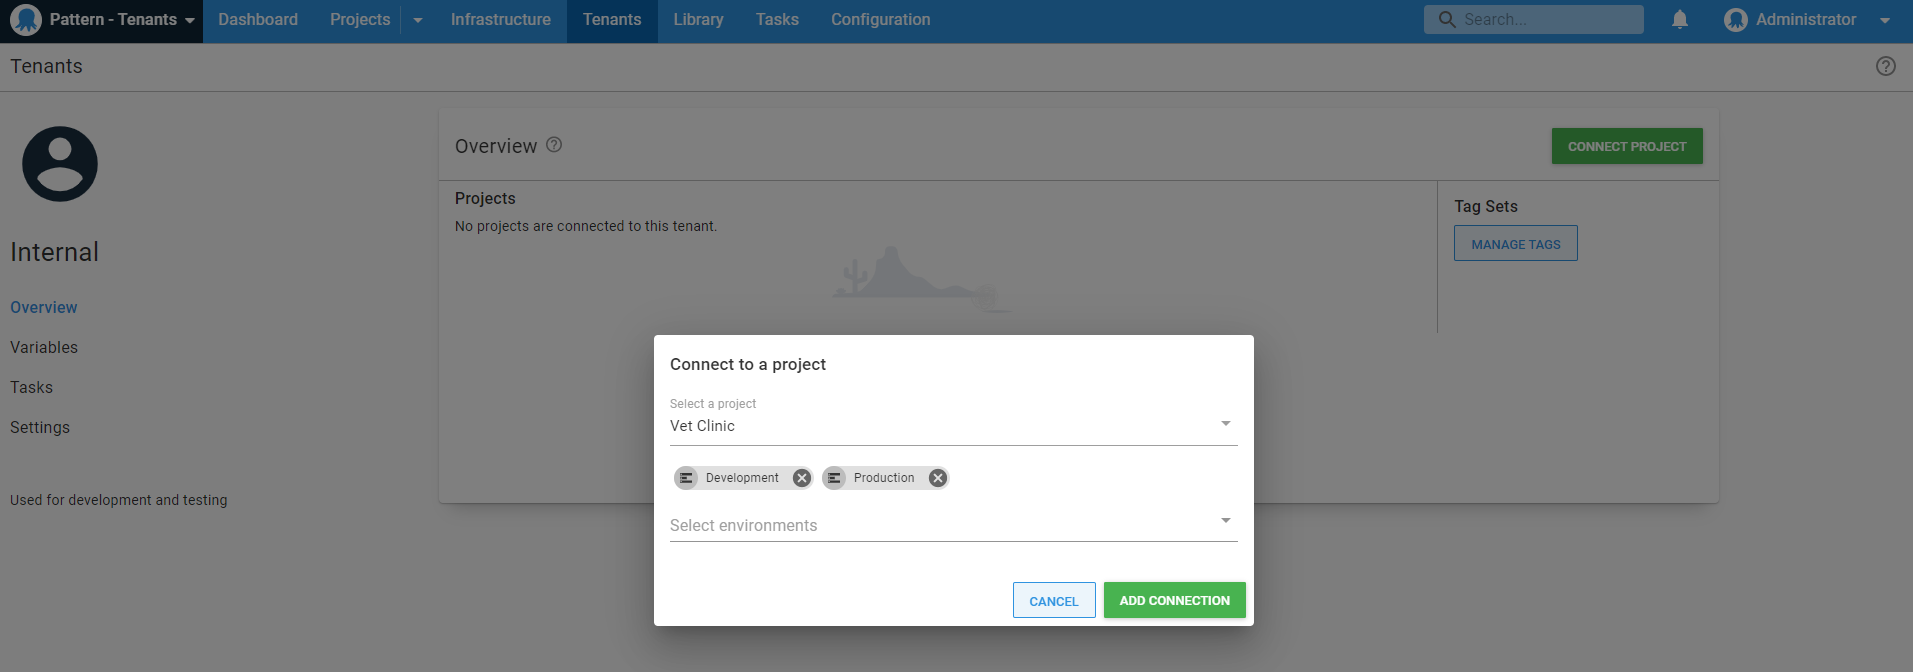
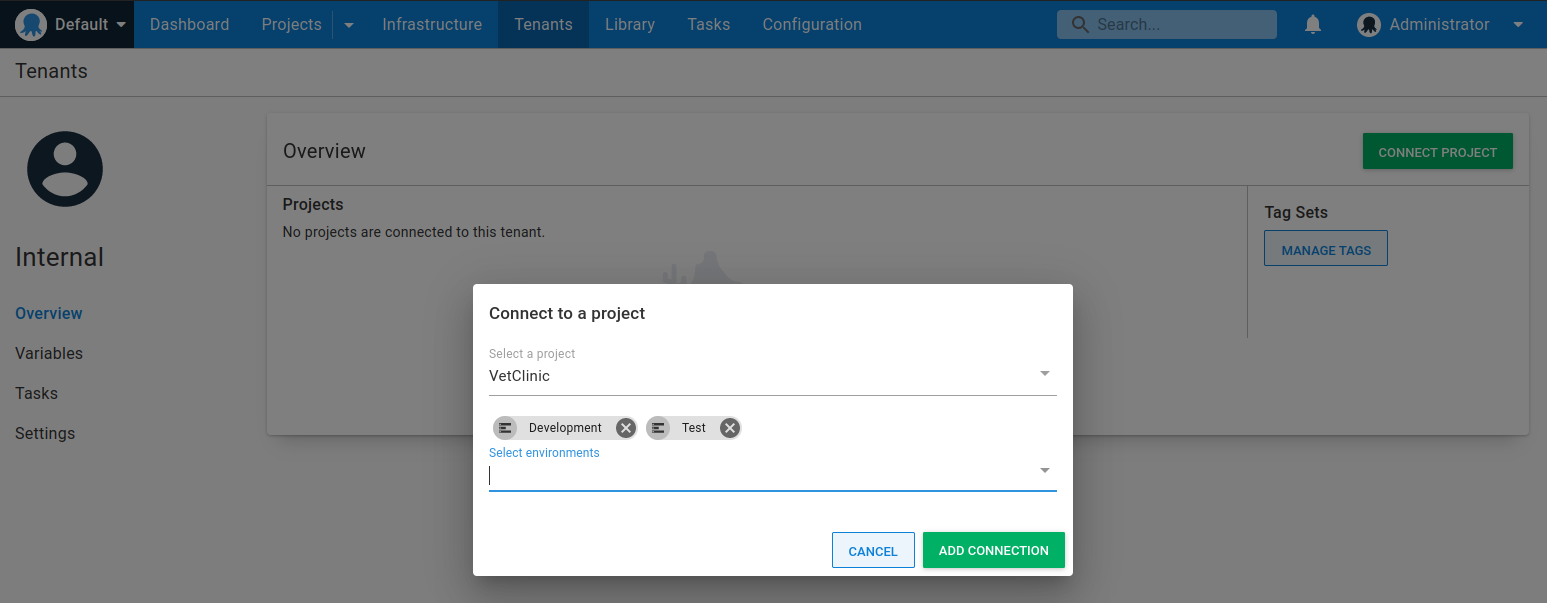
Update couple of images

diff --git a/docs/tenants/guides/multi-tenant-saas-application/index.md b/docs/tenants/guides/multi-tenant-saas-application/index.md
@@ -5,14 +5,15 @@ position: 10
 hideInThisSectionHeader: true
 ---
 
-This guide will introduce you to Software as a Service (SaaS) multi-tenant deployments in Octopus. In this guide, we will be deploying an application called **Vet Clinic**. When a customer signs up to Vet Clinic, they get their own [Azure Web App](/docs/infrastructure/deployment-targets/azure/web-app-targets/index.md) and database for staging and production, choosing which region the application and data are hosted in. Testing is completed internally development and test, then customers have there application deployed to staging and production. 
+This guide will introduce you to Software as a Service (SaaS) multi-tenant deployments in Octopus. In this guide, we will be deploying an application called **Vet Clinic**. When a customer signs up to Vet Clinic, they get their own [Azure Web App](/docs/infrastructure/deployment-targets/azure/web-app-targets/index.md) and database for staging and production, choosing which region the application and data are hosted in. Testing is completed internally in development and test, then customers have there instance of the application deployed *optionally* to staging and finally onto production. 
 
-There are some resources assumed already setup in Octopus inlcuding 
+In addition, customers can choose to take advantage of custom features, including custom branding on their instance of the Vet Clinic application.
 
-* Four environments, Developemt, Test, Staging and Production.
+There are some resources assumed already setup in Octopus including 
+
+* Four environments: Developemt, Test, Staging and Production.
 * The guides deploys to Azure Web Apps and these have already been pre configured in Azure. To create some Azure resources you can follow [this](https://octopus.com/docs/runbooks/runbook-examples/azure/provision-app-service
 ) runbook guide to set up Azure Web App Services for each of the environments. 
-
 
 <span><a class="btn btn-success" href="/docs/tenants/guides/multi-tenant-saas-application/creating-new-lifecycle">Get Started</a></span>
 
